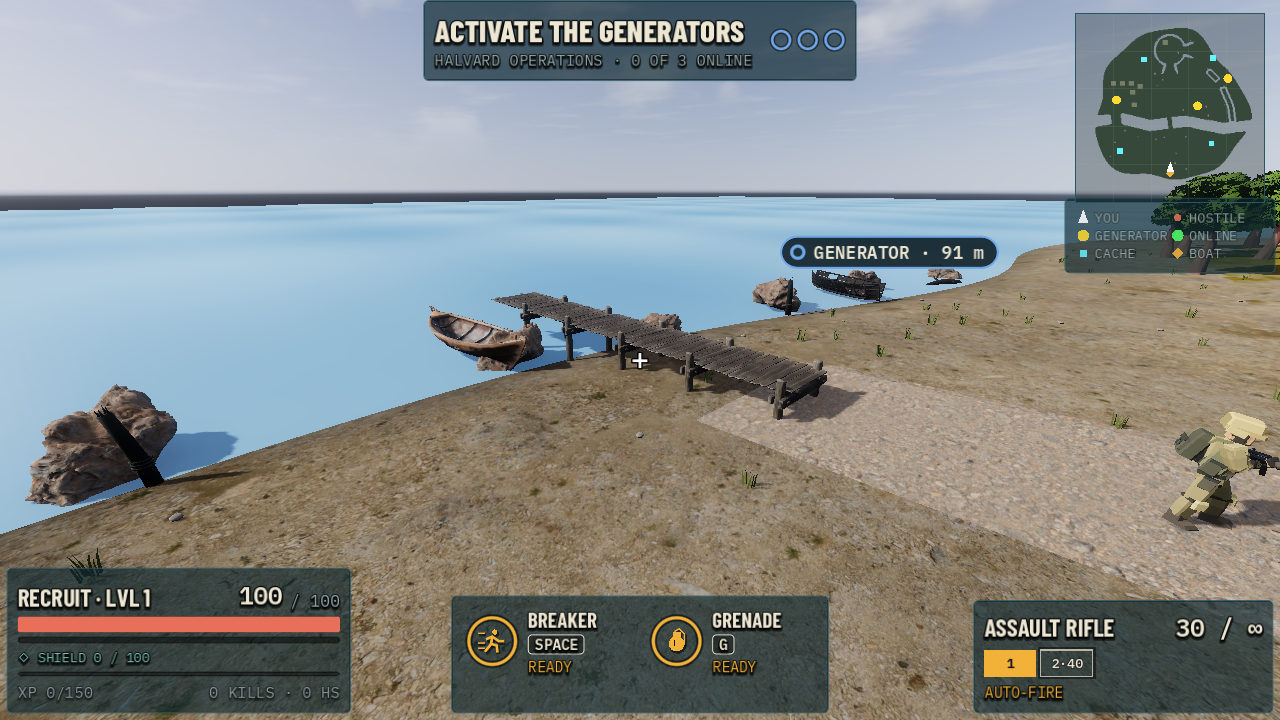
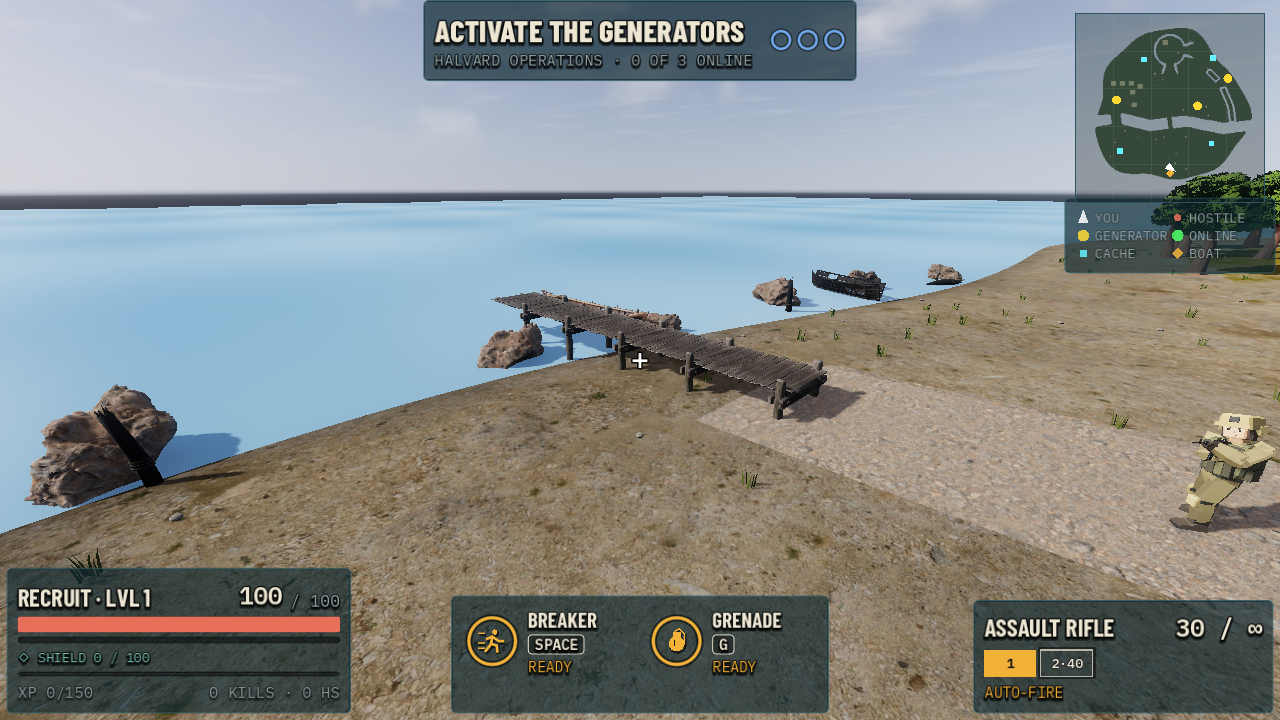
fix(world): moor the boat on the side of the pier clear of rocks

diff --git a/TODO.md b/TODO.md
@@ -119,7 +119,7 @@ Bloqueados por mecânica (não são animação pendente; motivo em `docs/tech/LO
   só depois estender a town/jungle/port/volcano. Não alterar layouts nesta fase.
   Luz do horror corrigida a 2026-11-14 (cor ambiente própria, névoa do chão mais fina): ver a
   jogar. Barco de extração e cais preparados e em jogo a 2026-11-14 (todas as ilhas com barco):
-  ver a jogar, afastar o barco do afloramento na `beach_01`, e decidir se a ponte usa as
+  ver a jogar e decidir se a ponte usa as
   mesmas secções do cais. Seguem-se vegetação maior, casas e torre, e falésias.
 - [ ] Vista geral do mapa antes de partir: desenhar a ilha real a partir da grelha da cena
   (`HandmadeIsland.grid_image`) em vez das manchas de `game/ui/route_map.gd`.

diff --git a/docs/tech/BEACH_VISUAL_PILOT.md b/docs/tech/BEACH_VISUAL_PILOT.md
@@ -182,8 +182,8 @@ kit CC0.
   mar, em secções de 2,9 m (8 no máximo); o barco fica amarrado ao lado, na ponta.
 - É decoração: o cais não muda a grelha e não se anda nele. Na Holdout o cais não aparece e o
   barco chega como antes.
-- Captura: `docs/design/beach_pilot_20261114/boat_and_pier.png`. Nessa captura o barco toca num
-  afloramento do dressing; falta afastar um do outro.
+- Captura: `docs/design/beach_pilot_20261114/boat_and_pier.png`. O barco amarra do lado do cais
+  mais afastado das rochas (`_clear_side`).
 - A pasta de origem do barco chama-se `assets/source/polyhaven/venus_a_shetland_fourareen`, mas o
   modelo não é do Poly Haven: a licença que o acompanha indica o Sketchfab.
 
